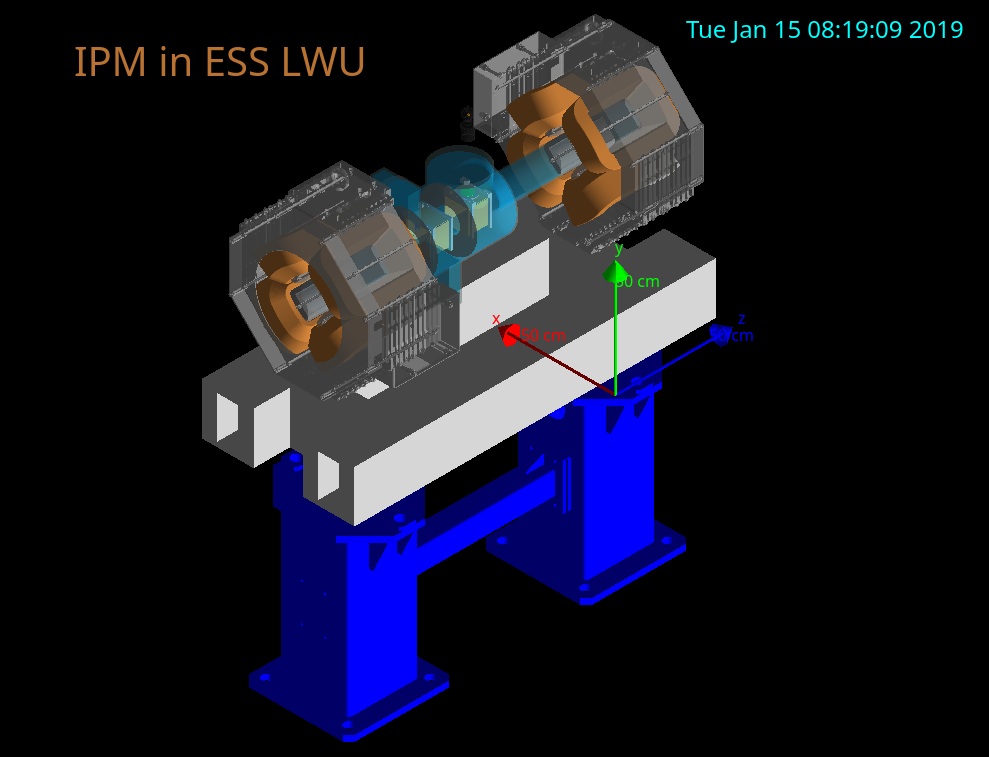
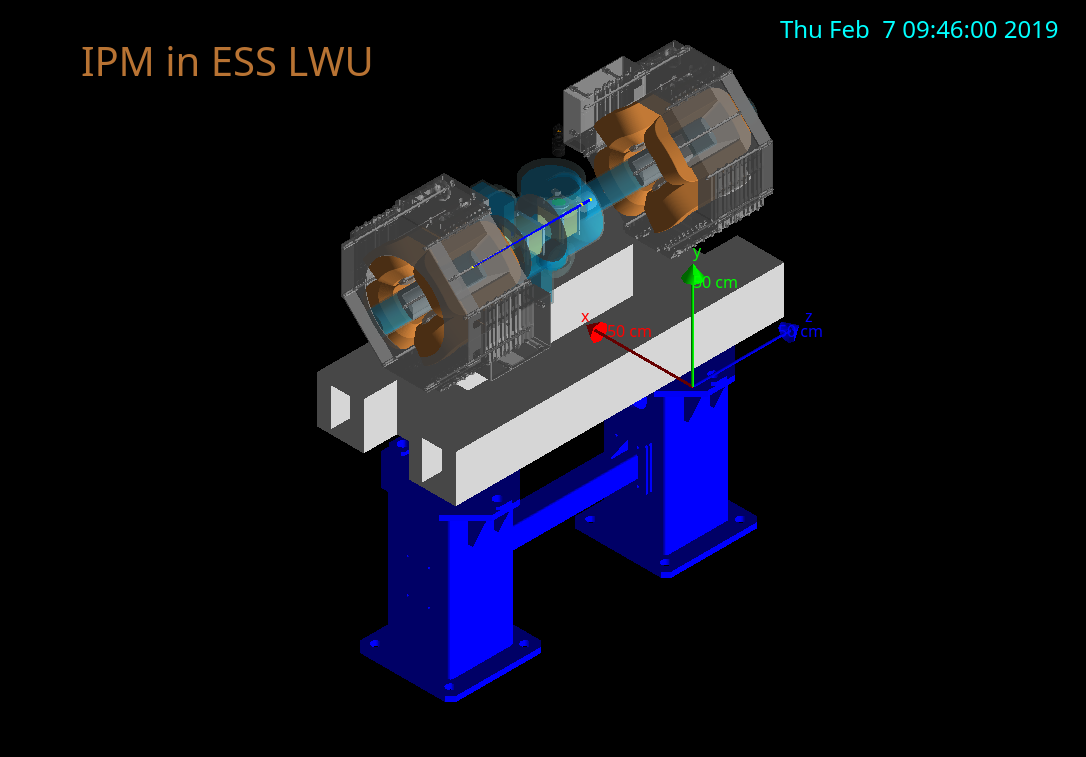
Minor fix and update
Update the scene.png file
Fix a overlap in vacuum with beam stop

diff --git a/src/ESSDetectorConstruction.cc b/src/ESSDetectorConstruction.cc
@@ -113,16 +113,16 @@ G4VPhysicalVolume *ESSDetectorConstruction::Construct() {
 
 void ESSDetectorConstruction::ConstructSDandField() {
   auto sdManager = G4SDManager::GetSDMpointer();
-  
+
   auto cameraSD = new ESSCameraSD("CamSD", "CameraCollection");
   sdManager->AddNewDetector(cameraSD);
   pixelCellsL->SetSensitiveDetector(cameraSD);
 
-  auto mcpSD = new ESSMCPSD("MCPSD","MCPCollection",0);
+  auto mcpSD = new ESSMCPSD("MCPSD", "MCPCollection", 0);
   sdManager->AddNewDetector(mcpSD);
   mcpL->SetSensitiveDetector(mcpSD);
 
-  auto beamStopSD = new ESSBeamStopSD("BeamStopSD","BeamStopCollection",10);
+  auto beamStopSD = new ESSBeamStopSD("BeamStopSD", "BeamStopCollection", 10);
   sdManager->AddNewDetector(beamStopSD);
   beamStopL->SetSensitiveDetector(beamStopSD);
 }
@@ -236,16 +236,13 @@ G4VSolid *ESSDetectorConstruction::ConstructSolidOuterLWU() {
                                           zplaneOuter, rIOuter, rOuter);
   auto wireScannerOuterBox =
       new G4Box("boxWSOuter", 155. * mm, 80. * mm, 29. * mm);
-  auto wireScannerCapBox =
-      new G4Box("boxWSCap", 155. * mm, 80. * mm, 29. * mm);
+  auto wireScannerCapBox = new G4Box("boxWSCap", 155. * mm, 80. * mm, 29. * mm);
   auto cf200OuterTub =
       new G4Tubs("cf200Outer", .0, 105 * mm, 8 * cm, phiS, phiT);
-  auto cf200CapTub =
-    new G4Tubs("cf200Cap", .0, 115 * mm, 2 * cm, phiS, phiT);
+  auto cf200CapTub = new G4Tubs("cf200Cap", .0, 115 * mm, 2 * cm, phiS, phiT);
   auto cf100OuterTub =
       new G4Tubs("cf100Outer", .0, 55 * mm, 8 * cm, phiS, phiT);
-  auto cf100CapTub =
-    new G4Tubs("cf100Cap", .0, 65 * mm, 1.5 * cm, phiS, phiT);
+  auto cf100CapTub = new G4Tubs("cf100Cap", .0, 65 * mm, 1.5 * cm, phiS, phiT);
 
   // LWU => Position and rotations
   auto posLWU = G4ThreeVector(.0 * mm, .0 * mm, .0 * mm);
@@ -369,10 +366,10 @@ G4VSolid *ESSDetectorConstruction::ConstructSolidInnerLWU() {
   return unionInner;
 }
 
-G4VSolid *ESSDetectorConstruction::ConstructSolidBeamStop(){ 
+G4VSolid *ESSDetectorConstruction::ConstructSolidBeamStop() {
   G4double phiS = 0. * degree;
   G4double phiT = 360. * degree;
-  return new G4Tubs("BeamStop", .0, 49 * mm, 2 * cm, phiS, phiT);
+  return new G4Tubs("BeamStop", .0, 30 * mm, 2 * cm, phiS, phiT);
 }
 
 G4VSolid *ESSDetectorConstruction::ConstructSolidFrame() {
@@ -505,20 +502,22 @@ G4VSolid *ESSDetectorConstruction::ConstructSolidLWUSupport() {
   return unionSolid;
 }
 
-G4VSolid* ESSDetectorConstruction::ConstructSolidLWUFoot() {
-  auto solidFoot = CADMesh::TessellatedMesh::FromSTL("LWU_E_type1/LWU_foot.stl");
+G4VSolid *ESSDetectorConstruction::ConstructSolidLWUFoot() {
+  auto solidFoot =
+      CADMesh::TessellatedMesh::FromSTL("LWU_E_type1/LWU_foot.stl");
   solidFoot->SetScale(mm);
   solidFoot->SetReverse(false);
   solidFoot->SetOffset(G4ThreeVector(0 * mm, .0 * mm, 0.0 * mm));
-  return solidFoot->GetSolid();  
+  return solidFoot->GetSolid();
 }
 
-G4VSolid* ESSDetectorConstruction::ConstructSolidLWUFootInter() {
-  auto solidFootInter = CADMesh::TessellatedMesh::FromSTL("LWU_E_type1/LWU_foot_inter.stl");
+G4VSolid *ESSDetectorConstruction::ConstructSolidLWUFootInter() {
+  auto solidFootInter =
+      CADMesh::TessellatedMesh::FromSTL("LWU_E_type1/LWU_foot_inter.stl");
   solidFootInter->SetScale(mm);
   solidFootInter->SetReverse(false);
   solidFootInter->SetOffset(G4ThreeVector(0 * mm, .0 * mm, 0.0 * mm));
-  return solidFootInter->GetSolid();  
+  return solidFootInter->GetSolid();
 }
 
 void ESSDetectorConstruction::ConstructLWU(G4VSolid *solidOuter,
@@ -543,9 +542,10 @@ void ESSDetectorConstruction::ConstructDisk(G4VSolid *solidDisk) {
 }
 
 void ESSDetectorConstruction::ConstructBeamStop(G4VSolid *solidBeamStop) {
+  // TODO: Beam stop overlap dans le quad pq ?
   beamStopL = new G4LogicalVolume(solidBeamStop, mat_vacuum, "BeamStopL");
-  new G4PVPlacement(0, G4ThreeVector(.0, .0, 905 * mm), beamStopL, "BeamStop", vacuumL,
-                    false, 0, checkOverlaps);
+  new G4PVPlacement(0, G4ThreeVector(.0, .0, 500 * mm), beamStopL, "BeamStop",
+                    vacuumL, false, 0, checkOverlaps);
 }
 
 void ESSDetectorConstruction::ConstructIPM(G4VSolid *solidFrame,
@@ -725,21 +725,25 @@ void ESSDetectorConstruction::ConstructLWUSupport(G4VSolid *solidSupportLWU) {
                     LWU_SupportL, "Support", worldL, false, 0, checkOverlaps);
 }
 
-void ESSDetectorConstruction::ConstructFeets(G4VSolid *solidFoot, G4VSolid *solidFootInter) {
+void ESSDetectorConstruction::ConstructFeets(G4VSolid *solidFoot,
+                                             G4VSolid *solidFootInter) {
   auto rotFoot = new G4RotationMatrix();
   rotFoot->rotateX(90 * deg);
   auto rotFootInner = new G4RotationMatrix();
   rotFootInner->rotateZ(90 * deg);
 
   LWU_FootL = new G4LogicalVolume(solidFoot, mat_steel, "LWU_FootL");
-  LWU_FootInterL = new G4LogicalVolume(solidFootInter, mat_steel, "LWU_FootInterL");
+  LWU_FootInterL =
+      new G4LogicalVolume(solidFootInter, mat_steel, "LWU_FootInterL");
 
-  new G4PVPlacement(new G4RotationMatrix(*rotFoot), G4ThreeVector(0. * mm, -1475 * mm, -135. * mm),
-                    LWU_FootL, "Foot1", worldL, false, 0, checkOverlaps);
+  new G4PVPlacement(new G4RotationMatrix(*rotFoot),
+                    G4ThreeVector(0. * mm, -1475 * mm, -135. * mm), LWU_FootL,
+                    "Foot1", worldL, false, 0, checkOverlaps);
   rotFoot->rotateZ(180 * deg);
 
   new G4PVPlacement(rotFoot, G4ThreeVector(0. * mm, -1475 * mm, 875. * mm),
                     LWU_FootL, "Foot2", worldL, false, 1, checkOverlaps);
   new G4PVPlacement(rotFootInner, G4ThreeVector(0. * mm, -1150. * mm, 42. * mm),
-                    LWU_FootInterL, "FootInter", worldL, false, 1, checkOverlaps);  
+                    LWU_FootInterL, "FootInter", worldL, false, 1,
+                    checkOverlaps);
 }
